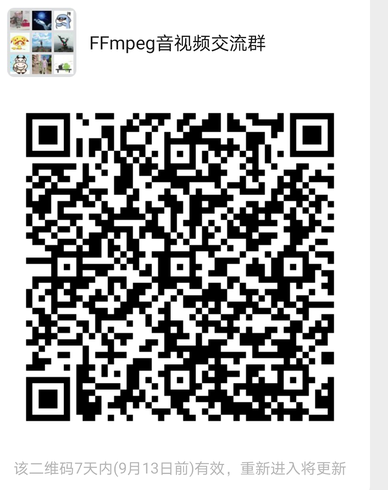
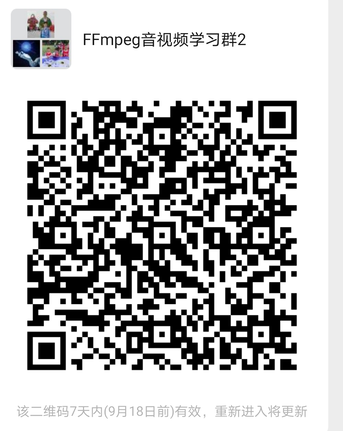
create learning group 2

diff --git a/README.md b/README.md
@@ -43,7 +43,7 @@ ffmpeg -i %s -s 1080x720 %s<br>
 Select video or audio file from your file explorer, and click the button.<br>
 When it finishes probing, the result of metadata will display on screen.<br>
 
-### Joining the group to learn FFmpeg:
+### Joining the group to learn FFmpeg(1群已满):
 ![preview](https://github.com/xufuji456/FFmpegAndroid/blob/master/picture/ffmpeg_group.png)
 
 ### Preview thumbnail when seeking:
